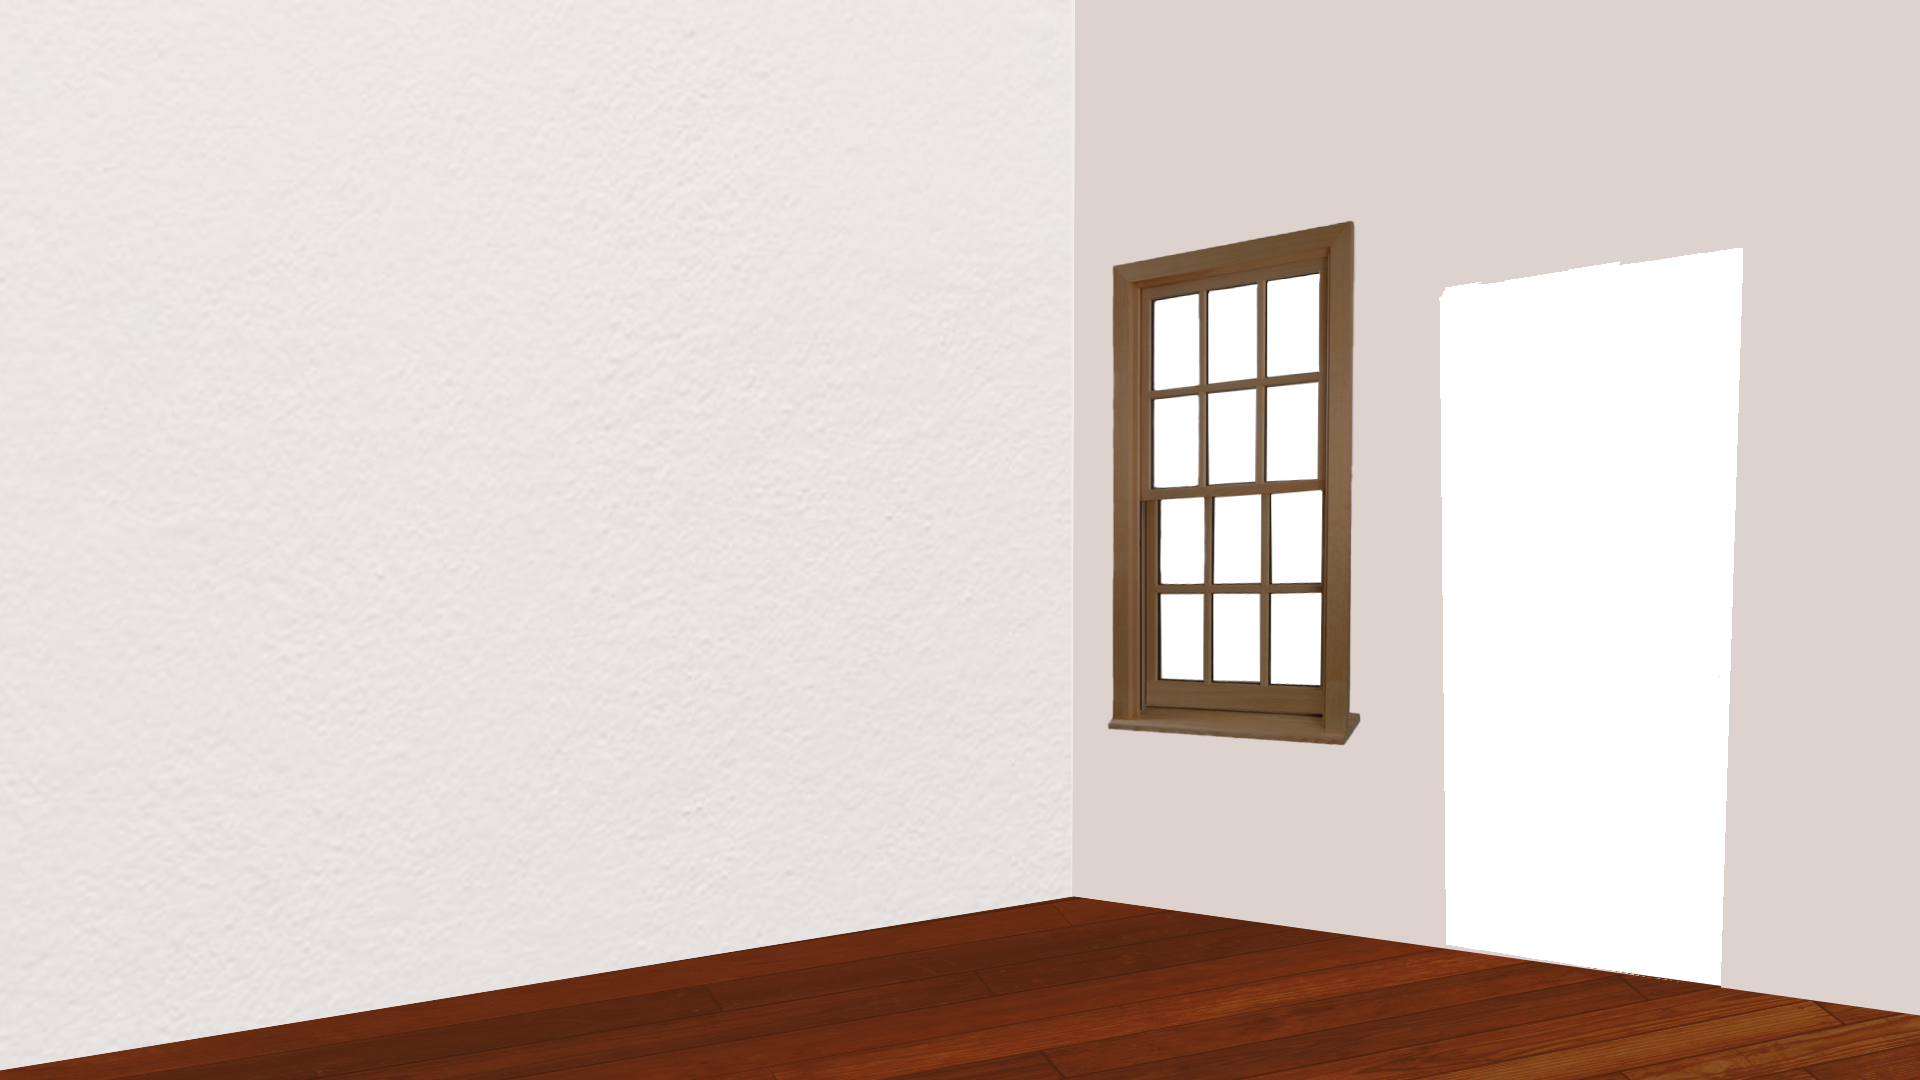
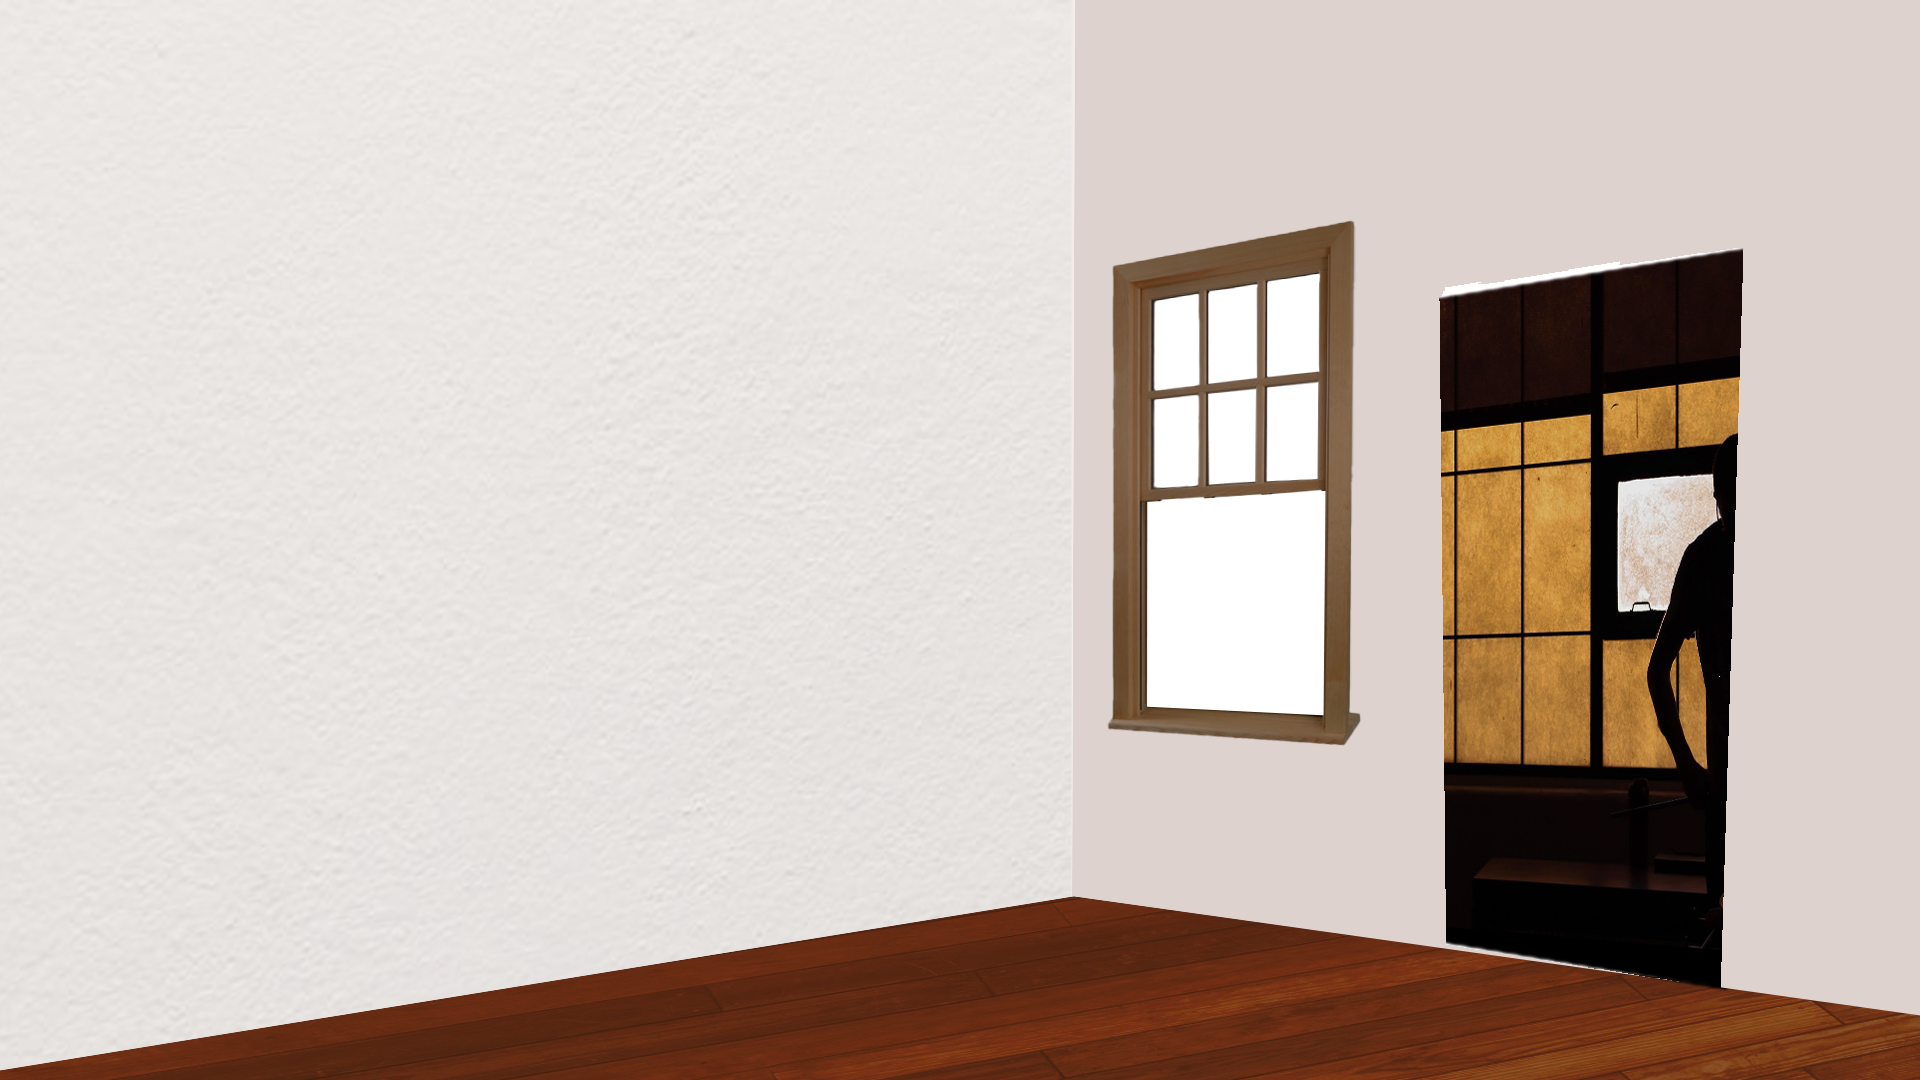
e

Changed region(s): [[0.75, 0.2139, 0.9062, 0.9167], [0.5938, 0.4583, 0.6875, 0.6722]]

diff --git a/studio.html b/studio.html
@@ -2,21 +2,33 @@
 
 <head>
     <title>bella's studio</title>
-    <link rel="stylesheet" src="styles.css">
+    <link rel="stylesheet" href="styles.css">
 </head>
 
 <body>
 
-     <div class="image-container">
-        <img class="bottom-image" src="img/studio.png" alt="Bottom Layer">
-                <a href="glass.html">   
-                    <div class="image-container">
-                        <img class="top-image color-change" src="img/doorstudio.png" alt="Top Layer">
-                </a>
-        
-        <img class="tippy-image" src="img/openthedoor.png" alt="Tippy Top">
+    <a href="glass.html">   
+        <div class="image-container">
+            <img class="top-image color-change" src="img/doorstudio.png" alt="Top Layer">
+        </div>
+    </a>
 
+    <div class="image-container">
+        <img class="bottom-image" src="img/studio.png" alt="Bottom Layer">
+
+    <div class="image-container">
+        <a href="https://www.instagram.com/reel/DJ-8YVqNTxS/?utm_source=ig_web_copy_link&igsh=MzRlODBiNWFlZA==" target="_blank">
+            <img class="windowclick color-change" src="img/windowclick.png">
+        </a>
     </div>
+
+        <div>
+            <img class="gif" src="img/vid.gif" alt="out the window">
+        </div>
+
+    
+
+   </div>
 
 </body>
 

diff --git a/styles.css b/styles.css
@@ -1,11 +1,81 @@
 body {
-    background-color: #6c3217;
+    background-color: #864818;
+}
+
+.image-container {
+  position: absolute;
+  width: 100vw;
+  height: 100vh; 
+}
+
+.gif {
+    position: absolute;
+    top: 0;
+    left: 0;
+    width: 200px;
+    height: 450px;
+    margin-left: 60%;
+    margin-top: 10%;
+}
+
+.bottom-image {
+  position: absolute;
+  top: 0;
+  left: 0;
+  width: 100%;
+  height: 100%;
+}
+
+.windowclick {
+    position: absolute;
+    top: 0;
+    left: 0;
+    width: 165px;
+    height: 195px;
+    margin-left: 59.5%;
+    margin-top: 23.75%;
+}
+
+.top-image {
+  position: absolute;
+  top: 0;
+  left: 0;
+  width: 280px;
+  height: 660px;
+  margin-left: 75%;
+  margin-right: 16%;
+  margin-top: 10%;
+}
+
+.windowclick {
+    z-index: 2;
+}
+
+.top-image {
+  z-index: 2; 
+}
+
+.bottom-image {
+  z-index: 1;
+}
+
+.gif {
+    z-index: 0;
+}
+
+.color-change{
+    filter: opacity(100%);
+    transition: filter 0.3s ease;
+}
+
+.color-change:hover{
+    filter: opacity(0%);
 }
 
 html {
-  cursor: url(img/openhandcursor.png), auto;
+  cursor: url(img/handsopencursor.png), auto;
 }
 
 a {
-  cursor: url(img/closedhandcursor.png), auto;
+  cursor: url(img/handsclosedcursor.png), auto;
 }

diff --git a/index.html b/index.html
@@ -9,7 +9,7 @@
 
     <div class="image-container">
         <img class="bottom-image" src="img/houuuse.png" alt="Bottom Layer">
-                <a href="studio.html">   
+                <a href="studio.html" target="_blank">   
                     <div class="image-container">
                         <img class="top-image color-change" src="img/door.png" alt="Top Layer">
                 </a>

diff --git a/glass/glass.html b/glass/glass.html
@@ -1,0 +1,15 @@
+<!DOCTYPE html>
+
+<head>
+
+    <title>the hot shop</title>
+    <link rel="stylesheet" href="style.css">
+
+</head>
+
+<body>
+
+    
+</body>
+
+</html>
